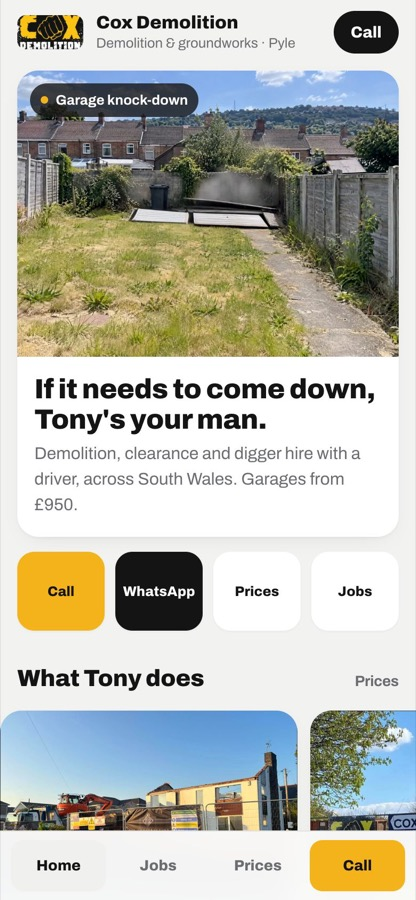
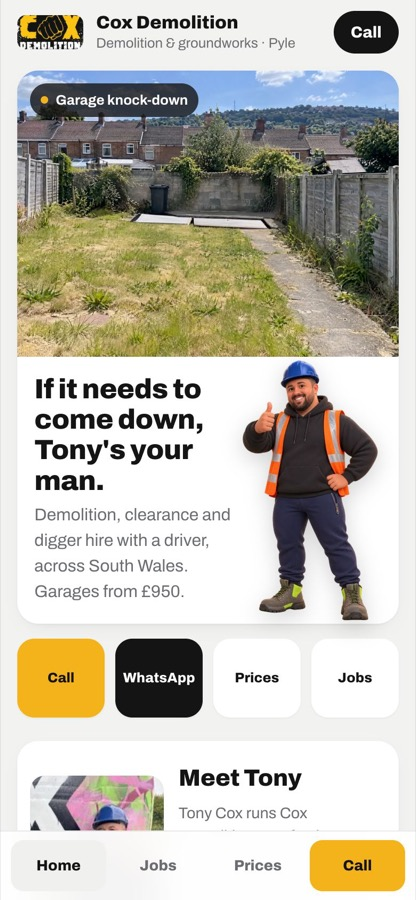
Cox Demolition B: Pixar Tony in the hero, real Tony in Meet Tony

Changed region(s): [[0.0, 0.4044, 1.0, 0.9333], [0.3125, 0.1556, 0.6875, 0.28], [0.375, 0.1556, 0.4375, 0.1867]]

diff --git a/cox-demolition/v2/index.html b/cox-demolition/v2/index.html
@@ -140,6 +140,13 @@ h2 a{font-size:14px;font-weight:700;color:var(--muted);text-decoration:none}
 .hero-body h1{font-weight:850;font-size:26px;line-height:1.1;letter-spacing:-.015em}
 .hero-body p{color:var(--muted);margin-top:6px}
 
+
+/* Tony stands in the hero card, overlapping the film, so he's in the first screen */
+.hero{overflow:visible}
+.hero .film{border-radius:var(--r) var(--r) 0 0;overflow:hidden}
+.hero-body{position:relative;padding-right:44%;min-height:190px}
+.hero-tony{position:absolute;right:4px;bottom:0;width:46%;height:auto;max-height:340px;object-fit:contain;object-position:bottom;filter:drop-shadow(0 6px 10px rgba(0,0,0,.18))}
+
 /* quick actions */
 .quick{display:grid;grid-template-columns:repeat(4,1fr);gap:10px;margin:14px var(--g) 0}
 .quick a{display:flex;flex-direction:column;align-items:center;justify-content:center;gap:4px;min-height:74px;border-radius:16px;background:var(--card);text-decoration:none;font-weight:800;font-size:13px;box-shadow:0 1px 2px rgba(0,0,0,.04)}
@@ -229,8 +236,9 @@ form .btn-teal{background:var(--ink);color:#fff}
 
 
 /* Meet Tony: his cartoon stands on the card edge */
-.meet{margin:22px var(--g) 0;display:grid;grid-template-columns:42% 1fr;align-items:end;gap:6px;padding:0 16px 0 6px;overflow:hidden;background:#fff;border-bottom:6px solid var(--yellow)}
+.meet{margin:22px var(--g) 0;display:grid;grid-template-columns:38% 1fr;align-items:center;gap:14px;padding:0 16px 0 12px;overflow:hidden;background:#fff;border-bottom:6px solid var(--yellow)}
 .meet img{width:100%;height:auto;margin-top:-6px;align-self:end}
+.meet img.real{margin:12px 0;border-radius:14px;aspect-ratio:330/560;object-fit:cover;object-position:top}
 .meet div{padding:18px 0}
 .meet .meet-h{margin:0 0 6px;font-size:22px}
 .meet p{font-size:14.5px;color:var(--muted)}
@@ -264,6 +272,7 @@ form .btn-teal{background:var(--ink);color:#fff}
       <span class="chip live">Garage knock-down</span>
     </div>
     <div class="hero-body">
+      <img class="hero-tony" src="../media/tony/pixar-tony.webp" width="598" height="900" alt="Tony Cox, cartoon version, giving a thumbs up">
       <h1>If it needs to come down, Tony's your man.</h1>
       <p>Demolition, clearance and digger hire with a driver, across South Wales. Garages from £950.</p>
     </div>
@@ -278,7 +287,7 @@ form .btn-teal{background:var(--ink);color:#fff}
 
 
   <section class="card meet">
-    <img src="../media/tony/pixar-tony.webp" width="598" height="900" alt="Tony Cox, cartoon version, in his blue hard hat and hi-vis giving a thumbs up">
+    <img class="real" src="../media/tony/tony-real.jpg" width="330" height="700" alt="Tony Cox in his hard hat and hi-vis next to his Cox Demolition machine">
     <div>
       <h2 class="meet-h">Meet Tony</h2>
       <p>Tony Cox runs Cox Demolition out of Pyle. He comes and looks at your job himself, gives you a straight price and does the work with his own machines.</p>
